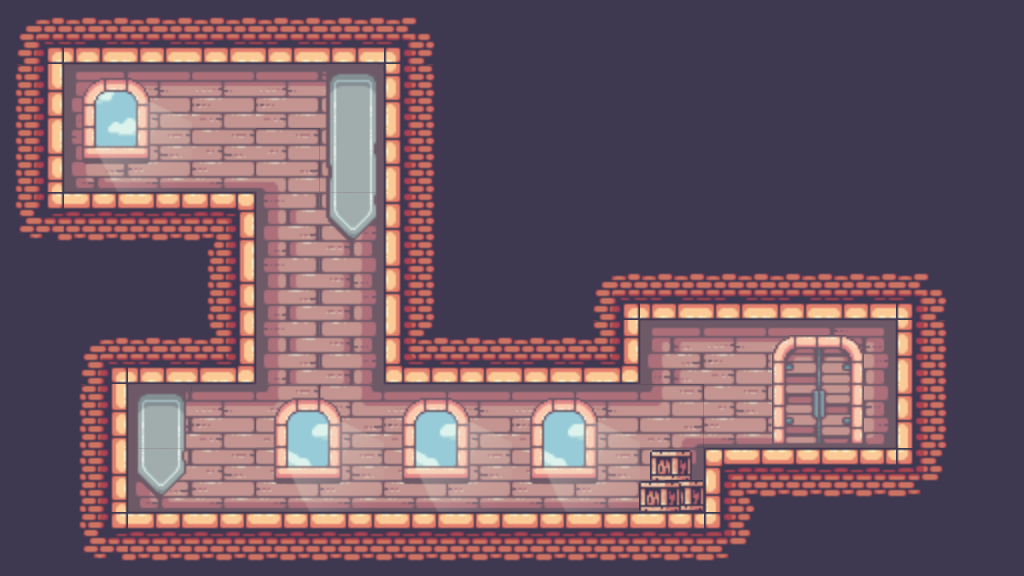
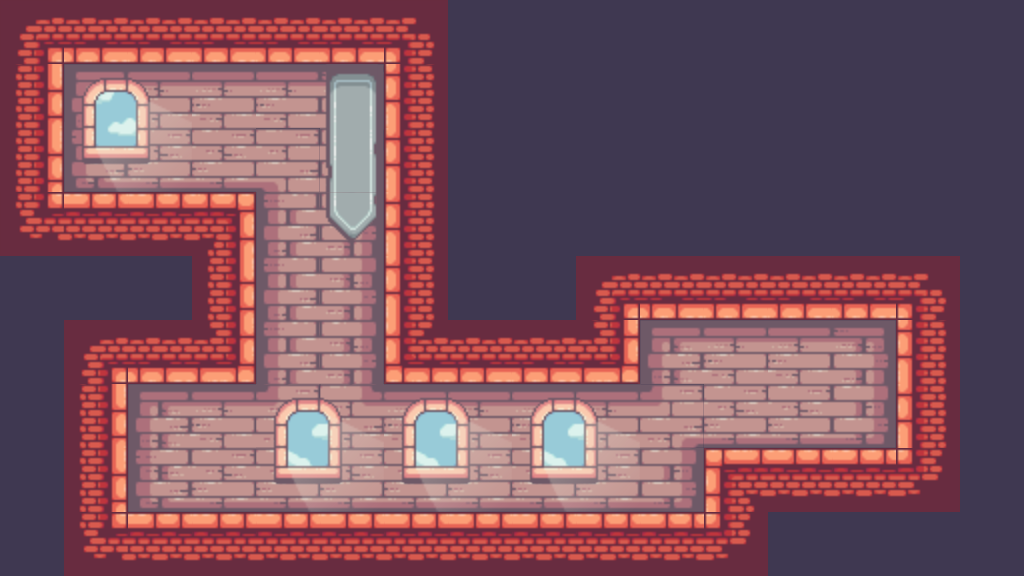
animation switch issue, added new level

diff --git a/index.js b/index.js
@@ -4,19 +4,12 @@ const c = canvas.getContext("2d");
 canvas.width = 1024;
 canvas.height = 576;
 
-const parsedCollisions = collisionsLevel1.parse2D();
-const collisionBlocks = parsedCollisions.createObjectsFrom2D();
-
-const backgroundLevel1 = new Sprite({
-  position: {
-    x: 0,
-    y: 0,
-  },
-  imageSrc: "./img/backgroundLevel1.png",
-});
+let parsedCollisions;
+let collisionBlocks;
+let background;
+let doors;
 
 const player = new Player({
-  collisionBlocks,
   imageSrc: "./img/king/idle.png",
   frameRate: 11,
   animations: {
@@ -49,23 +42,85 @@ const player = new Player({
       frameBuffer: 4,
       loop: false,
       imageSrc: "./img/king/enterDoor.png",
+      onComplete: () => {
+        gsap.to(overlay, {
+          opacity: 1,
+          onComplete: () => {
+            level++,
+              levels[level].init(),
+              gsap.to(overlay, {
+                opacity: 0,
+              });
+          },
+        });
+      },
     },
   },
 });
 
-const doors = [
-  new Sprite({
-    position: {
-      x: 753,
-      y: 274,
+let level = 1;
+
+let levels = {
+  1: {
+    init: () => {
+      parsedCollisions = collisionsLevel1.parse2D();
+      collisionBlocks = parsedCollisions.createObjectsFrom2D();
+      player.collisionBlocks = collisionBlocks;
+
+      background = new Sprite({
+        position: {
+          x: 0,
+          y: 0,
+        },
+        imageSrc: "./img/backgroundLevel1.png",
+      });
+      doors = [
+        new Sprite({
+          position: {
+            x: 753,
+            y: 274,
+          },
+          imageSrc: "./img/doorOpen.png",
+          frameRate: 5,
+          frameBuffer: 5,
+          loop: false,
+          autoplay: false,
+        }),
+      ];
     },
-    imageSrc: "./img/doorOpen.png",
-    frameRate: 5,
-    frameBuffer: 5,
-    loop: false,
-    autoplay: false,
-  }),
-];
+  },
+
+  2: {
+    init: () => {
+      parsedCollisions = collisionsLevel2.parse2D();
+      collisionBlocks = parsedCollisions.createObjectsFrom2D();
+      player.collisionBlocks = collisionBlocks;
+      player.position.x = 68;
+      player.position.y = 115;
+
+      background = new Sprite({
+        position: {
+          x: 0,
+          y: 0,
+        },
+        imageSrc: "./img/backgroundLevel2.png",
+      });
+      doors = [
+        new Sprite({
+          position: {
+            x: 772,
+            y: 336,
+          },
+          imageSrc: "./img/doorOpen.png",
+          frameRate: 5,
+          frameBuffer: 5,
+          loop: false,
+          autoplay: false,
+        }),
+      ];
+    },
+  },
+};
 
 const keys = {
   w: {
@@ -79,10 +134,14 @@ const keys = {
   },
 };
 
+const overlay = {
+  opacity: 0,
+};
+
 function animate() {
   window.requestAnimationFrame(animate);
 
-  backgroundLevel1.draw();
+  background.draw();
   collisionBlocks.forEach((collisionBlock) => {
     collisionBlock.draw();
   });
@@ -94,6 +153,14 @@ function animate() {
   player.handleInput(keys);
   player.draw();
   player.update();
+
+  c.save();
+  c.globalAlpha = overlay.opacity;
+  c.fillStyle = "black";
+  c.fillRect(0, 0, canvas.width, canvas.height);
+  c.restore();
 }
+
+levels[level].init();
 
 animate();

diff --git a/js/data/collisions.js b/js/data/collisions.js
@@ -7,3 +7,13 @@ const collisionsLevel1 = [
   292, 292, 292, 0, 0, 0, 0, 0, 0, 0, 0, 0, 0, 0, 0, 0, 0, 0, 0, 0, 0, 0, 0, 0,
   0, 0, 0, 0, 0, 0, 0, 0, 0, 0, 0, 0,
 ];
+
+const collisionsLevel2 = [
+  292, 292, 292, 292, 292, 292, 292, 0, 0, 0, 0, 0, 0, 0, 0, 0, 292, 0, 0, 0, 0,
+  0, 292, 0, 0, 0, 0, 0, 0, 0, 0, 0, 292, 0, 0, 0, 0, 0, 292, 0, 0, 0, 0, 0, 0,
+  0, 0, 0, 292, 292, 292, 292, 0, 0, 292, 0, 0, 0, 0, 0, 0, 0, 0, 0, 0, 0, 0,
+  292, 0, 0, 292, 0, 0, 292, 292, 292, 292, 292, 292, 0, 0, 292, 292, 292, 0, 0,
+  292, 292, 292, 292, 0, 0, 0, 0, 292, 0, 0, 292, 0, 0, 0, 0, 0, 0, 0, 0, 0, 0,
+  0, 0, 292, 0, 0, 292, 0, 0, 0, 0, 0, 0, 0, 0, 0, 292, 292, 292, 292, 0, 0,
+  292, 292, 292, 292, 292, 292, 292, 292, 292, 292, 292, 0, 0, 0, 0,
+];

diff --git a/js/classes/Sprite.js b/js/classes/Sprite.js
@@ -24,6 +24,7 @@ class Sprite {
     this.animations = animations;
     this.loop = loop;
     this.autoplay = autoplay;
+    this.currentAnimation;
 
     if (this.animations) {
       for (let key in this.animations) {
@@ -70,6 +71,15 @@ class Sprite {
     if (this.elapsedFrames % this.frameBuffer === 0) {
       if (this.currentFrame < this.frameRate - 1) this.currentFrame++;
       else if (this.loop) this.currentFrame = 0;
+    }
+    if (this.currentAnimation?.onComplete) {
+      if (
+        this.currentFrame === this.frameRate - 1 &&
+        !this.currentAnimation.isActive
+      ) {
+        this.currentAnimation.onComplete();
+        this.currentAnimation.isActive = true;
+      }
     }
   }
 }

diff --git a/index.html b/index.html
@@ -4,6 +4,12 @@
   }
 </style>
 <canvas> </canvas>
+<script
+  src="https://cdnjs.cloudflare.com/ajax/libs/gsap/3.11.1/gsap.min.js"
+  integrity="sha512-Mf/xUqfWvDIr+1B6zfnIDIiG7XHzyP/guXUWgV6PgaQoIFeXkJQR5XWh9fqAiCiRCpemabt3naV4jhDWVnuYDQ=="
+  crossorigin="anonymous"
+  referrerpolicy="no-referrer"
+></script>
 <script src="js/utils.js"></script>
 <script src="js/data/collisions.js"></script>
 <script src="js/classes/CollisionBlock.js"></script>

diff --git a/js/classes/Player.js b/js/classes/Player.js
@@ -66,6 +66,7 @@ class Player extends Sprite {
     this.frameRate = this.animations[name].frameRate;
     this.frameBuffer = this.animations[name].frameBuffer;
     this.loop = this.animations[name].loop;
+    this.currentAnimation = this.animations[name];
   }
 
   updateHitbox() {
